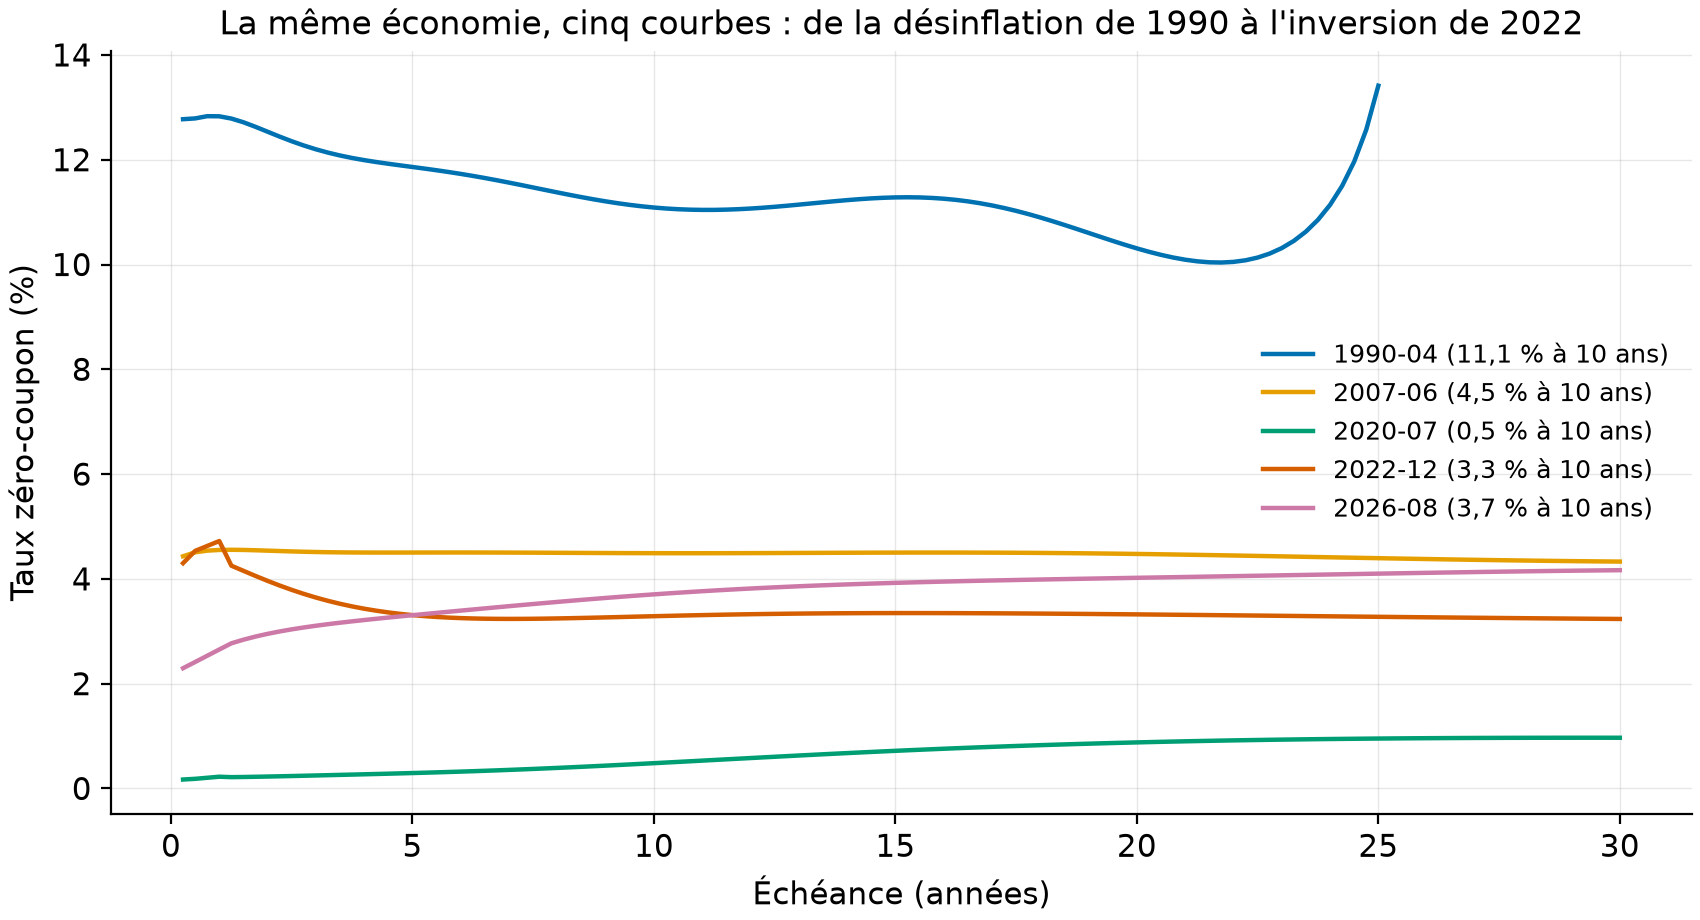
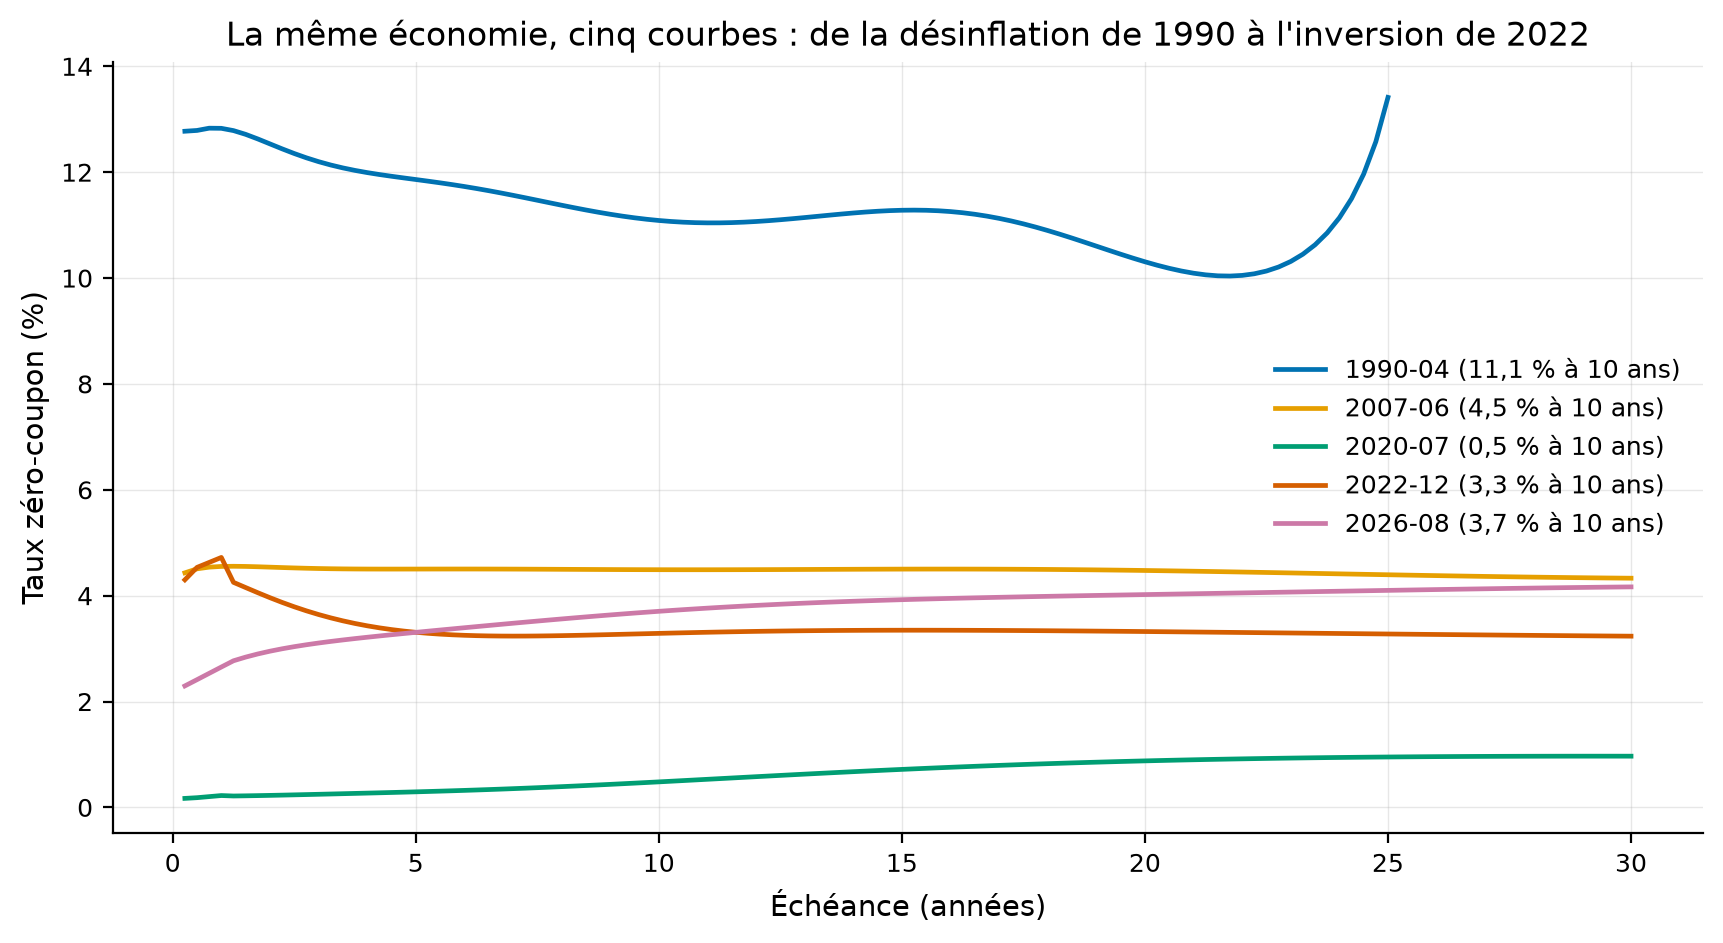
Consommer la feuille de style partagée au lieu de recopier la palette
La palette Okabe-Ito et les réglages de figure étaient recopiés à l'identique dans
chaque dépôt du portefeuille. Une correction de graisse de trait devait donc être faite
une fois par dépôt, et ne l'était jamais.

Le module de figures appelle désormais gv-fintools 0.2.1. Le nom public de la fonction
de réglage ne change pas, si bien qu'aucun appelant n'est touché. Les figures sont
régénérées avec le nouveau style, qui ajoute l'embarquement des polices dans les PDF :
le texte d'une figure reste sélectionnable et cherchable dans le rapport.

diff --git a/src/ycc/figures.py b/src/ycc/figures.py
@@ -7,8 +7,10 @@ from pathlib import Path
 import matplotlib.pyplot as plt
 import numpy as np
 import pandas as pd
+from gvf.style import OKABE_ITO, appliquer, formateur  # noqa: F401
 
-OKABE_ITO = ["#0072B2", "#E69F00", "#009E73", "#D55E00", "#CC79A7", "#56B4E9", "#F0E442", "#000000"]
+# La palette et les réglages viennent de la couche partagée du portefeuille : les mêmes
+# couleurs et la même virgule décimale dans tous les dépôts, corrigées à un seul endroit.
 
 NOMS_SCENARIOS = {
     "parallele_hausse": "Hausse parallèle", "parallele_baisse": "Baisse parallèle",
@@ -18,18 +20,9 @@ NOMS_SCENARIOS = {
 
 
 def use_style():
-    import matplotlib as mpl
-    from cycler import cycler
-    from matplotlib.ticker import FuncFormatter
-
-    mpl.rcParams.update({
-        "figure.dpi": 200, "savefig.dpi": 200, "figure.constrained_layout.use": True,
-        "font.size": 11, "axes.titlesize": 12, "axes.prop_cycle": cycler(color=OKABE_ITO),
-        "axes.spines.top": False, "axes.spines.right": False,
-        "axes.grid": True, "grid.alpha": 0.3, "grid.linewidth": 0.5,
-        "legend.frameon": False, "lines.linewidth": 1.6,
-    })
-    return FuncFormatter(lambda v, _: f"{v:g}".replace(".", ","))
+    """Les réglages communs, puis le formateur d'axe en français."""
+    appliquer()
+    return formateur()
 
 
 def _shade(ax, episodes, index) -> None:
